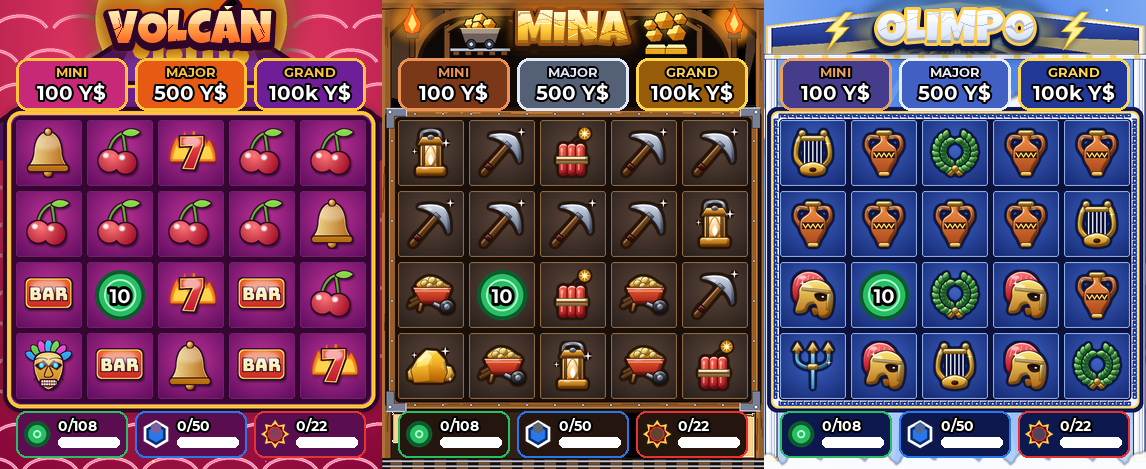
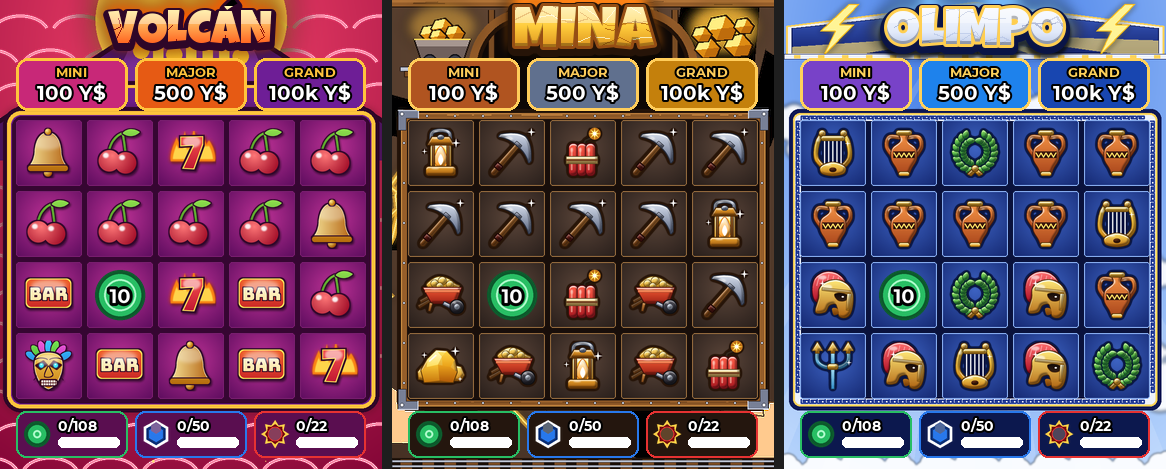
Tragaperras: rótulos y fondos de la Mina y el Olimpo a la altura del Volcán

diff --git a/src/bot/services/hold_win_render.py b/src/bot/services/hold_win_render.py
@@ -192,7 +192,7 @@ STYLES: dict[str, Style] = {
     ),
     "mina": Style(
         top=(104, 76, 56),
-        bottom=(30, 20, 16),
+        bottom=(66, 46, 34),
         frame=(214, 150, 70),
         frame_dark=(36, 22, 14),
         cells="reel",
@@ -201,9 +201,9 @@ STYLES: dict[str, Style] = {
         title_glow=(255, 130, 20),
         effect="gold",
         plaques=(
-            ((236, 146, 84), (122, 56, 24)),
-            ((226, 232, 246), (84, 96, 118)),
-            ((255, 214, 80), (150, 92, 10)),
+            ((255, 205, 90), (176, 84, 32)),
+            ((255, 205, 90), (96, 112, 142)),
+            ((255, 205, 90), (196, 128, 12)),
         ),
         cell_full=((92, 70, 58), (42, 32, 28)),
         cell_empty=((44, 33, 28), (24, 17, 15)),
@@ -220,9 +220,9 @@ STYLES: dict[str, Style] = {
         title_glow=(120, 190, 255),
         effect="lightning",
         plaques=(
-            ((232, 160, 92), (70, 60, 140)),
-            ((232, 238, 252), (64, 96, 196)),
-            ((255, 214, 80), (34, 56, 150)),
+            ((255, 210, 90), (120, 66, 200)),
+            ((255, 210, 90), (30, 130, 236)),
+            ((255, 210, 90), (24, 70, 176)),
         ),
         cell_full=((62, 100, 196), (22, 42, 116)),
         cell_empty=((26, 42, 104), (10, 18, 58)),
@@ -1361,10 +1361,10 @@ def _mine_backdrop(image: Image.Image, style: Style) -> None:
         angles = sorted(rng.uniform(0, 2 * math.pi) for _ in range(7))
         shape = [(cx + r * math.cos(a) * rng.uniform(0.7, 1.1),
                   cy + r * math.sin(a) * rng.uniform(0.7, 1.1)) for a in angles]  # fmt: skip
-        tone = rng.choice(((0, 0, 0, 46), (255, 210, 150, 16), (0, 0, 0, 28)))
-        draw.polygon(shape, fill=tone, outline=(0, 0, 0, 44))
+        tone = rng.choice(((0, 0, 0, 46), (255, 200, 140, 34), (0, 0, 0, 28)))
+        draw.polygon(shape, fill=tone, outline=(0, 0, 0, 90))
     veins = []
-    for _ in range(8):
+    for _ in range(14):
         x, y = rng.uniform(0, width), rng.uniform(0, height * 0.9)
         points = [(x, y)]
         for _ in range(rng.randint(4, 7)):
@@ -1382,7 +1382,7 @@ def _mine_backdrop(image: Image.Image, style: Style) -> None:
     # Solo se ve lo que queda por encima de las placas y a los lados del rótulo.
     cx, floor = width / 2, 58 * S
     horizon = 14 * S
-    mouth = (width * 0.07, 8 * S, width * 0.93, GRID_Y * S + 12 * S)
+    mouth = (width * 0.2, 8 * S, width * 0.8, GRID_Y * S + 12 * S)
     draw.rounded_rectangle(mouth, radius=60 * S, fill=(14, 8, 6))
     _glow_layer(
         image,
@@ -1392,10 +1392,10 @@ def _mine_backdrop(image: Image.Image, style: Style) -> None:
         14,
     )
     # Vigas de apeo de la boca: dos postes con jabalcones y un dintel que cruza todo.
-    for x in (width * 0.17, width * 0.83):
+    for x in (width * 0.26, width * 0.74):
         draw.line((x, 10 * S, x, floor), fill=(34, 18, 8), width=7 * S)
         draw.line((x, 10 * S, x, floor), fill=(122, 76, 36), width=5 * S)
-    for x0, x1 in ((width * 0.17, width * 0.25), (width * 0.83, width * 0.75)):
+    for x0, x1 in ((width * 0.26, width * 0.31), (width * 0.74, width * 0.69)):
         draw.line((x0, 30 * S, x1, 12 * S), fill=(34, 18, 8), width=6 * S)
         draw.line((x0, 30 * S, x1, 12 * S), fill=(134, 84, 38), width=4 * S)
     # Marco de madera de la boca.
@@ -1403,17 +1403,13 @@ def _mine_backdrop(image: Image.Image, style: Style) -> None:
     draw.rounded_rectangle(mouth, radius=60 * S, outline=(146, 90, 40), width=8 * S)
 
 
-def _flame(image: Image.Image, x: float, y: float) -> None:
-    """Llama de antorcha con su halo (`x`, `y` en píxeles dobles)."""
-    _halo(image, (x - 24 * S, y - 28 * S, x + 24 * S, y + 16 * S), (255, 150, 30, 130), 10)
-    draw = ImageDraw.Draw(image, "RGBA")
-    drop = [(x, y - 24 * S), (x + 4 * S, y - 13 * S), (x + 9 * S, y - 5 * S),
-            (x + 7 * S, y + 3 * S),
-            (x, y + 6 * S), (x - 7 * S, y + 3 * S), (x - 9 * S, y - 5 * S),
-            (x - 4 * S, y - 13 * S)]  # fmt: skip
-    draw.polygon(drop, fill=(255, 120, 20), outline=(150, 40, 10))
-    draw.polygon([(x, y - 14 * S), (x + 4 * S, y - 4 * S), (x, y + 3 * S), (x - 4 * S, y - 4 * S)],
-                 fill=(255, 228, 120))  # fmt: skip
+def _big(image: Image.Image, painter, x: float, y: float, k: float) -> None:  # noqa: ANN001
+    """Pinta `painter(capa, x, y)` en una capa, la amplía `k` veces y la pone en (`x`, `y`)."""
+    w, h = 120 * S, 70 * S
+    layer = Image.new("RGBA", (w, h), (0, 0, 0, 0))
+    painter(layer, w // 2, 52 * S)
+    layer = layer.resize((int(w * k), int(h * k)), Image.Resampling.LANCZOS)
+    image.alpha_composite(layer, (int(x - layer.width / 2), int(y - 52 * S * k)))
 
 
 def _nugget(draw: ImageDraw.ImageDraw, x: float, y: float, r: float) -> None:
@@ -1476,26 +1472,11 @@ def _mine_scene(image: Image.Image, style: Style, rng: random.Random) -> None:
         r = rng.choice((1, 2, 3)) * S / 2
         draw.ellipse((x - r, y - r, x + r, y + r), fill=(255, 210, 120, 110))
     # Vigas: dos postes y un dintel arriba, con jabalcones en las esquinas.
-    post = 8 * S
-    for x0 in (0, w - post):
-        _wood(draw, (x0, 0, x0 + post, h), vertical=True, rng=rng)
-    _wood(draw, (0, 0, w, 8 * S), vertical=False, rng=rng)
-    for side in (-1, 1):
-        ax = post if side < 0 else w - post
-        draw.polygon([(ax, 8 * S), (ax - side * 30 * S, 8 * S), (ax, 38 * S)], fill=(34, 18, 8))
-        draw.polygon([(ax, 9 * S), (ax - side * 25 * S, 9 * S), (ax, 32 * S)], fill=(134, 82, 36))
-    # Antorchas junto al rótulo.
-    for x in (30 * S, w - 30 * S):
-        draw.rounded_rectangle((x - 3 * S, 34 * S, x + 3 * S, 58 * S), radius=2 * S,
-                               fill=(92, 54, 24), outline=(34, 18, 8), width=S)  # fmt: skip
-        draw.rectangle(
-            (x - 6 * S, 32 * S, x + 6 * S, 38 * S), fill=(70, 74, 88), outline=(20, 20, 26)
-        )
-        _flame(image, x, 28 * S)
-    _cart(image, 98 * S, 42 * S)
-    _gold_pile(image, w - 98 * S, 42 * S)
+    _wood(draw, (0, 0, w, 6 * S), vertical=False, rng=rng)
+    _big(image, lambda im, x, y: _cart(im, x, y), 50 * S, 58 * S, 1.4)
+    _big(image, lambda im, x, y: _gold_pile(im, x, y), w - 50 * S, 58 * S, 1.4)
     # Marco de tablones alrededor de la rejilla.
-    box = _grid_box(9)
+    box = _grid_box(7)
     draw = ImageDraw.Draw(image, "RGBA")
     draw.rounded_rectangle(
         (box[0] - 4 * S, box[1] - 4 * S, box[2] + 4 * S, box[3] + 4 * S), radius=10 * S,
@@ -1592,19 +1573,6 @@ def _bolt(cx: float, top: float, bottom: float, half: float) -> list[tuple[float
             (cx + half * 1.3, top)]  # fmt: skip
 
 
-def _column(draw: ImageDraw.ImageDraw, x0: float, x1: float, y0: float, y1: float) -> None:
-    """Columna de mármol acanalada con capitel y base de oro."""
-    draw.rectangle((x0, y0, x1, y1), fill=(30, 40, 96))
-    draw.rectangle((x0 + S, y0, x1 - S, y1), fill=(238, 242, 252))
-    flute = (x1 - x0) / 4
-    for k in (1, 2, 3):
-        draw.line((x0 + flute * k, y0 + 5 * S, x0 + flute * k, y1 - 5 * S), fill=(176, 190, 222),
-                  width=S)  # fmt: skip
-    draw.rectangle((x0 + S, y0, x0 + (x1 - x0) * 0.3, y1), fill=(255, 255, 255))
-    for y in (y0, y1 - 4 * S):
-        draw.rectangle((x0 - S, y, x1 + S, y + 4 * S), fill=(255, 210, 90), outline=(120, 80, 10))
-
-
 def _meander(draw: ImageDraw.ImageDraw, box: tuple) -> None:
     """Greca griega (meandro) de azul noche por los cuatro lados del marco de mármol."""
     u, band = 8 * S, 4 * S  # largo de cada greca y alto de la cinta
@@ -1632,8 +1600,6 @@ def _olympus_scene(image: Image.Image, style: Style, rng: random.Random) -> None
     """Frontón de mármol con el rayo de Zeus, columnas, marco de mármol y oro, y nubes al pie."""
     w, h = image.size
     draw = ImageDraw.Draw(image, "RGBA")
-    for x0 in (1 * S, w - 13 * S):
-        _column(draw, x0, x0 + 12 * S, 54 * S, h - 8 * S)
     # Frontón: mármol por fuera y un tímpano azul con el rayo dentro.
     roof = [(3 * S, 56 * S), (3 * S, 26 * S), (w / 2, 2 * S), (w - 3 * S, 26 * S),
             (w - 3 * S, 56 * S)]  # fmt: skip
@@ -1664,8 +1630,8 @@ def _olympus_scene(image: Image.Image, style: Style, rng: random.Random) -> None
     _glow_layer(image, lambda d: d.polygon(bolt, fill=(255, 226, 90, 255)), 14)
     draw = ImageDraw.Draw(image, "RGBA")
     draw.polygon(bolt, fill=(255, 240, 120), outline=(255, 190, 30), width=S)
-    for sx in (w / 2 - 118 * S, w / 2 + 118 * S):
-        small = _bolt(sx, 12 * S, 50 * S, 12 * S)
+    for sx in (w / 2 - 138 * S, w / 2 + 138 * S):
+        small = _bolt(sx, 4 * S, 56 * S, 17 * S)
         _glow_layer(image, lambda d, small=small: d.polygon(small, fill=(255, 226, 90, 200)), 6)
         draw = ImageDraw.Draw(image, "RGBA")
         draw.polygon(small, fill=(255, 244, 150), outline=(255, 190, 30), width=S)
@@ -1674,7 +1640,7 @@ def _olympus_scene(image: Image.Image, style: Style, rng: random.Random) -> None
     for x in range(10 * S, w, 24 * S):
         draw.rectangle((x, 55 * S, x + 6 * S, 58 * S), fill=(255, 210, 90))
     # Marco de mármol y oro alrededor de la rejilla.
-    box = _grid_box(9)
+    box = _grid_box(7)
     draw.rounded_rectangle(
         (box[0] - 4 * S, box[1] - 4 * S, box[2] + 4 * S, box[3] + 4 * S), radius=10 * S,
         fill=(14, 24, 84))  # fmt: skip
@@ -1722,18 +1688,20 @@ def _stone_title(
     rim: tuple[int, int, int] | None,
     vein_colors: Sequence[tuple[int, int, int, int]],
     seed: str,
+    size: int = 46,
+    dy: int = 0,
 ) -> None:
     """Rótulo como el del Volcán: letras gordas con relieve, borde grueso, sombra y halo.
 
     El relleno es un degradado de varias paradas (`stops`) con vetas encima, un filo
     de color (`rim`) entre el borde y la letra y un brillo en el tercio de arriba.
     """
-    font = _title_font(fonts, "luckiest-guy.woff", 46)
-    cx, cy = WIDTH / 2, TITLE_Y + TITLE_H / 2 + 4
-    size = image.size
+    font = _title_font(fonts, "luckiest-guy.woff", size)
+    cx, cy = WIDTH / 2, TITLE_Y + TITLE_H / 2 + 4 + dy
+    canvas = image.size
 
     def stamp(offset: float, width: int, fill: tuple[int, ...]) -> Image.Image:
-        layer = Image.new("RGBA", size, (0, 0, 0, 0))
+        layer = Image.new("RGBA", canvas, (0, 0, 0, 0))
         ImageDraw.Draw(layer).text((cx, cy + offset), text, font=font, anchor="mm", fill=fill,
                                    stroke_width=width, stroke_fill=fill)  # fmt: skip
         return layer
@@ -1741,36 +1709,38 @@ def _stone_title(
     image.alpha_composite(
         stamp(0, 8, style.title_glow + (255,)).filter(ImageFilter.GaussianBlur(7))
     )
-    image.alpha_composite(stamp(4, 6, (0, 0, 0, 150)).filter(ImageFilter.GaussianBlur(1.2)))
-    image.alpha_composite(stamp(3, 5, edge + (255,)))
+    image.alpha_composite(stamp(7, 8, (0, 0, 0, 170)).filter(ImageFilter.GaussianBlur(1.5)))
+    image.alpha_composite(stamp(3, 7, edge + (255,)))
     if rim is not None:
         image.alpha_composite(stamp(0, 3, rim + (255,)))
-    mask = Image.new("L", size, 0)
+    mask = Image.new("L", canvas, 0)
     ImageDraw.Draw(mask).text((cx, cy), text, font=font, anchor="mm", fill=255)
-    top, bottom = TITLE_Y + 4, TITLE_Y + TITLE_H + 2
-    t = np.clip((np.arange(size[1]) - top) / (bottom - top), 0, 1)[:, None]
-    face = np.zeros((size[1], 3), np.float32)
+    top, bottom = int(cy - size * 0.72), int(cy + size * 0.5)
+    t = np.clip((np.arange(canvas[1]) - top) / (bottom - top), 0, 1)[:, None]
+    face = np.zeros((canvas[1], 3), np.float32)
     for channel in range(3):
         face[:, channel] = np.interp(t[:, 0], [s[0] for s in stops], [s[1][channel] for s in stops])
-    fill = Image.fromarray(np.repeat(face[:, None, :], size[0], axis=1).astype(np.uint8), "RGB")
+    fill = Image.fromarray(np.repeat(face[:, None, :], canvas[0], axis=1).astype(np.uint8), "RGB")
     fill = fill.convert("RGBA")
     rng = random.Random(seed)
     fill.alpha_composite(
         _veins(
-            size,
+            canvas,
             rng,
-            (int(cx - 90), TITLE_Y + 6, int(cx + 90), TITLE_Y + TITLE_H - 4),
-            9,
+            (int(cx - size * 1.9), top + 4, int(cx + size * 1.9), bottom - 8),
+            11,
             vein_colors,
         )  # fmt: skip
     )
     image.paste(fill, (0, 0), mask)
     # Brillo arriba y una línea de luz en el borde de abajo de cada letra, para el relieve.
-    shine = Image.new("L", size, 0)
-    ImageDraw.Draw(shine).rectangle((0, TITLE_Y, WIDTH, TITLE_Y + TITLE_H * 0.34), fill=96)
-    image.paste(Image.new("RGBA", size, WHITE + (255,)), (0, 0), ImageChops.multiply(mask, shine))
+    shine = Image.new("L", canvas, 0)
+    ImageDraw.Draw(shine).rectangle((0, top, WIDTH, top + (bottom - top) * 0.4), fill=96)
+    image.paste(Image.new("RGBA", canvas, WHITE + (255,)), (0, 0), ImageChops.multiply(mask, shine))
     low = ImageChops.subtract(mask, ImageChops.offset(mask, 0, -3))
-    image.paste(Image.new("RGBA", size, (0, 0, 0, 255)), (0, 0), low.point(lambda v: v * 70 // 255))
+    image.paste(
+        Image.new("RGBA", canvas, (0, 0, 0, 255)), (0, 0), low.point(lambda v: v * 70 // 255)
+    )
 
 
 def _mine_title(image: Image.Image, text: str, style: Style, fonts: Path) -> None:
@@ -1780,7 +1750,7 @@ def _mine_title(image: Image.Image, text: str, style: Style, fonts: Path) -> Non
         stops=((0.0, (255, 252, 190)), (0.45, (255, 205, 60)), (1.0, (196, 104, 10))),
         edge=(38, 20, 8), rim=(150, 78, 20),
         vein_colors=((170, 96, 10, 200), (255, 255, 220, 190), (210, 130, 20, 170)),
-        seed="mina-rotulo",
+        seed="mina-rotulo", size=58, dy=2,
     )  # fmt: skip
 
 
@@ -1791,7 +1761,7 @@ def _olympus_title(image: Image.Image, text: str, style: Style, fonts: Path) -> 
         stops=((0.0, (255, 255, 255)), (0.55, (226, 234, 250)), (1.0, (150, 170, 214))),
         edge=(10, 20, 70), rim=(255, 206, 80),
         vein_colors=((120, 140, 190, 120), (170, 186, 224, 130), (96, 112, 170, 100)),
-        seed="olimpo-rotulo",
+        seed="olimpo-rotulo", size=52, dy=1,
     )  # fmt: skip
 
 
